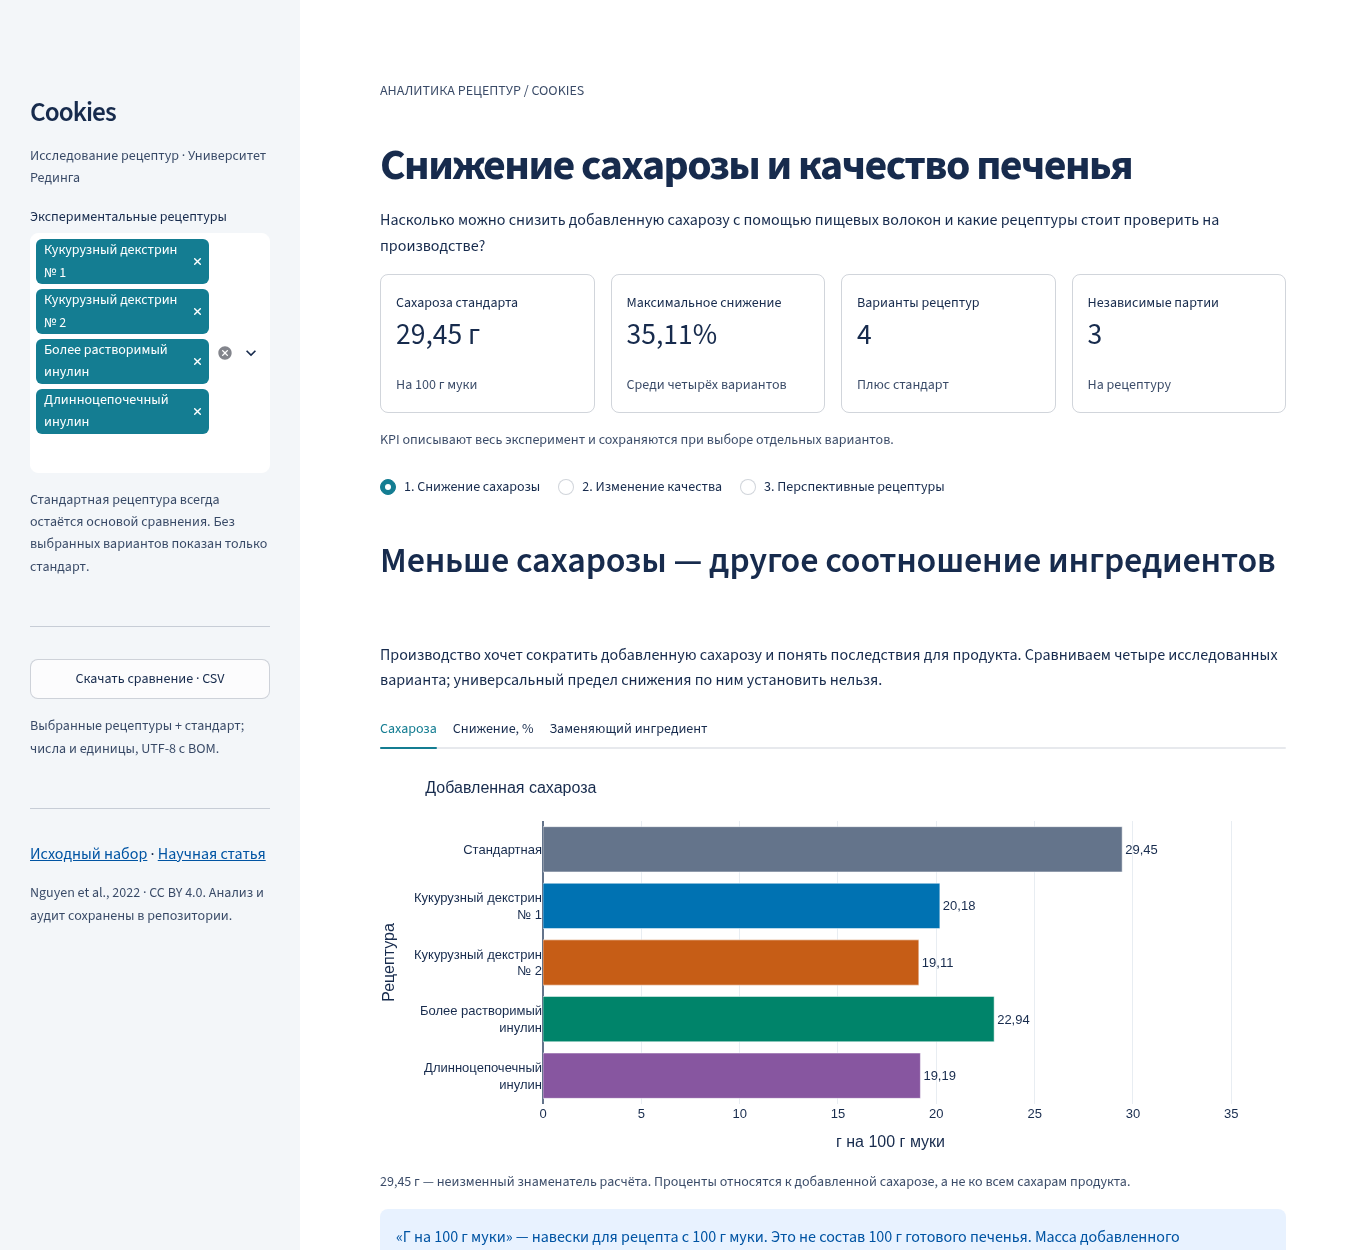
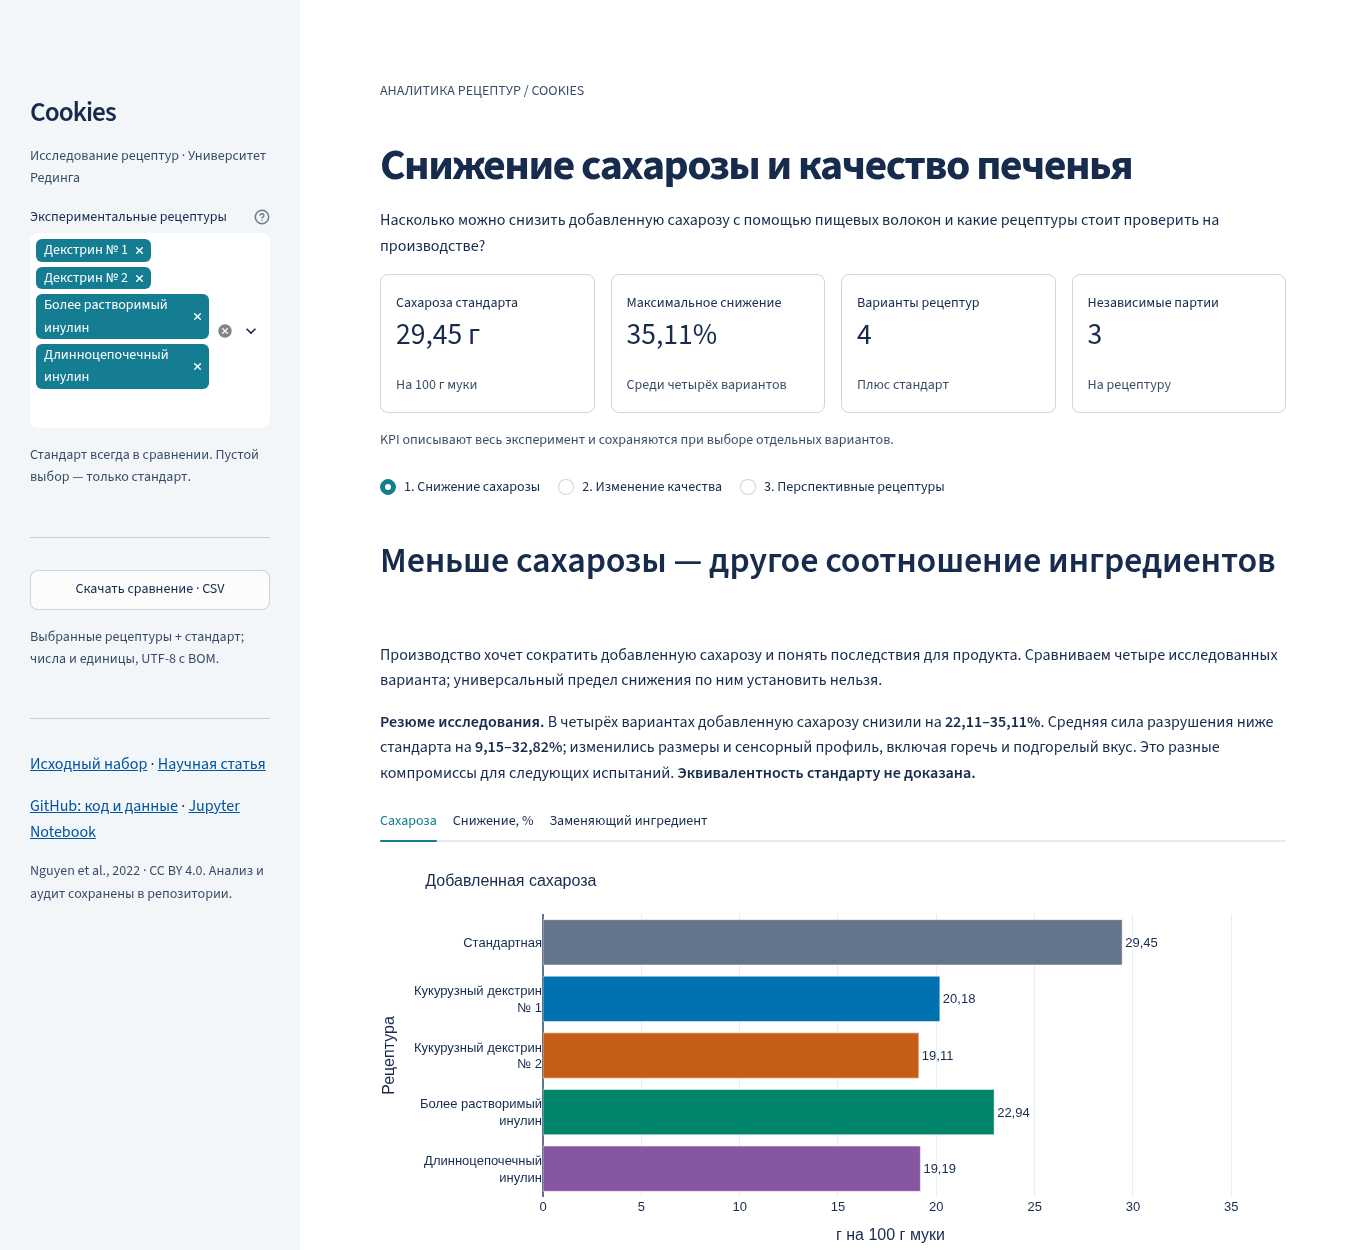
Polish published Cookies app for portfolio demonstrations

diff --git a/app.py b/app.py
@@ -211,6 +211,15 @@ def sugar_section(tables, selected):
     st.header("Меньше сахарозы — другое соотношение ингредиентов")
     st.write("Производство хочет сократить добавленную сахарозу и понять последствия для продукта. "
              "Сравниваем четыре исследованных варианта; универсальный предел снижения по ним установить нельзя.")
+    candidates = tables["candidate_comparison"]
+    sugar_low, sugar_high = candidates.sucrose_reduction_pct.min(), candidates.sucrose_reduction_pct.max()
+    force_low, force_high = candidates.absolute_breaking_relative_delta_pct.min(), candidates.absolute_breaking_relative_delta_pct.max()
+    st.markdown(
+        f"**Резюме исследования.** В четырёх вариантах добавленную сахарозу снизили на **{number(sugar_low)}–{number(sugar_high)}%**. "
+        f"Средняя сила разрушения ниже стандарта на **{number(force_low)}–{number(force_high)}%**; "
+        "изменились размеры и сенсорный профиль, включая горечь и подгорелый вкус. "
+        "Это разные компромиссы для следующих испытаний. **Эквивалентность стандарту не доказана.**"
+    )
     recipes = selected_rows(tables["recipes"], selected)
     sugar_tab, reduction_tab, ingredient_tab = st.tabs(["Сахароза", "Снижение, %", "Заменяющий ингредиент"])
     with sugar_tab:
@@ -408,14 +417,20 @@ def main():
         st.title("Cookies")
         st.caption("Исследование рецептур · Университет Рединга")
         selected = st.multiselect("Экспериментальные рецептуры", recipes.recipe_id.iloc[1:].tolist(),
-                                  default=recipes.recipe_id.iloc[1:].tolist(), format_func=names.get, placeholder="Выберите варианты", key="recipes")
-        st.caption("Стандартная рецептура всегда остаётся основой сравнения. Без выбранных вариантов показан только стандарт.")
+                                  default=recipes.recipe_id.iloc[1:].tolist(),
+                                  format_func=lambda rid: names[rid].replace("Кукурузный декстрин", "Декстрин"),
+                                  placeholder="Выберите варианты", key="recipes",
+                                  help="Декстрин № 1 — кукурузный декстрин Nutriose; № 2 — Promitor. Полные названия рецептур сохранены на графиках и в таблицах.")
+        st.caption("Стандарт всегда в сравнении. Пустой выбор — только стандарт.")
         st.divider()
         st.download_button("Скачать сравнение · CSV", csv_bytes(comparison_table(tables, selected)),
                            file_name="cookies_comparison.csv", mime="text/csv", key="download_comparison", width="stretch")
         st.caption("Выбранные рецептуры + стандарт; числа и единицы, UTF-8 с BOM.")
         st.divider()
         st.markdown("[Исходный набор](https://doi.org/10.17864/1947.000384) · [Научная статья](https://doi.org/10.1016/j.lwt.2022.113837)")
+        # Публичность Alina-lab/cookies проверена через GitHub 14.10.2026.
+        st.markdown("[GitHub: код и данные](https://github.com/Alina-lab/cookies) · "
+                    "[Jupyter Notebook](https://github.com/Alina-lab/cookies/blob/main/biscuit_recipe_analysis.ipynb)")
         st.caption("Nguyen et al., 2022 · CC BY 4.0. Анализ и аудит сохранены в репозитории.")
     st.caption("АНАЛИТИКА РЕЦЕПТУР / COOKIES")
     st.title("Снижение сахарозы и качество печенья")

diff --git a/tests/browser_smoke.py b/tests/browser_smoke.py
@@ -25,6 +25,10 @@ def run(executable=None, screenshots=None):
         page.get_by_role("heading", name="Снижение сахарозы и качество печенья").wait_for()
         page.locator(".js-plotly-plot .main-svg").first.wait_for()
         page.wait_for_function("document.querySelector('.js-plotly-plot')?.data?.[0]?.x?.length === 5")
+        expect(page.get_by_role("link", name="GitHub: код и данные", exact=True)).to_have_attribute("href", "https://github.com/Alina-lab/cookies")
+        expect(page.get_by_role("link", name="Jupyter Notebook", exact=True)).to_have_attribute("href", "https://github.com/Alina-lab/cookies/blob/main/biscuit_recipe_analysis.ipynb")
+        page.get_by_text("Резюме исследования.", exact=True).wait_for()
+        assert page.locator('[data-testid="stSidebar"] [data-testid="stMultiSelectTagsContainer"]').evaluate("e => e.clientHeight < 220")
         expect(page.locator('[data-testid="stMetricValue"]')).to_have_text(["29,45 г", "35,11%", "4", "3"])
         assert "Стандартная" in page.locator(".js-plotly-plot .ytick").all_text_contents()
         tags = page.locator('[data-tag] span[title]').evaluate_all("es => es.map(e => [e.clientWidth,e.scrollWidth,e.clientHeight,e.scrollHeight])")
@@ -41,7 +45,7 @@ def run(executable=None, screenshots=None):
         page.locator(".js-plotly-plot .barlayer .point").first.hover(force=True)
         expect(page.locator(".hoverlayer").first).to_contain_text("29,45")
         # Фильтр рецептур, контроль и скачивание настоящего файла браузером.
-        for label in ["Кукурузный декстрин № 2", "Более растворимый инулин", "Длинноцепочечный инулин"]:
+        for label in ["Декстрин № 2", "Более растворимый инулин", "Длинноцепочечный инулин"]:
             page.get_by_role("button", name="Remove " + label, exact=True).click()
         page.wait_for_function("document.querySelector('.js-plotly-plot')?.data?.[0]?.x?.length === 2")
         page.get_by_role("tab", name="Снижение, %", exact=True).click()

diff --git a/tests/test_app.py b/tests/test_app.py
@@ -78,6 +78,13 @@ class CookiesAppTests(unittest.TestCase):
         at = AppTest.from_file(str(ROOT / "app.py"), default_timeout=20).run()
         self.healthy(at)
         self.assertEqual([m.value for m in at.metric], ["29,45 г", "35,11%", "4", "3"])
+        summary = next(element.value for element in at.markdown if "Резюме исследования." in element.value)
+        self.assertIn("22,11–35,11%", summary)
+        self.assertIn("9,15–32,82%", summary)
+        self.assertIn("Эквивалентность стандарту не доказана", summary)
+        links = " ".join(element.value for element in at.markdown)
+        self.assertIn("https://github.com/Alina-lab/cookies/blob/main/biscuit_recipe_analysis.ipynb", links)
+
         choices = [[], ["nutriose"], ["promitor"], ["orafti"], ["fibruline"], ["nutriose", "fibruline"]]
         for selected in choices:
             at.multiselect(key="recipes").set_value(selected).run()
@@ -89,6 +96,7 @@ class CookiesAppTests(unittest.TestCase):
             self.assertEqual(figs[2]["data"][0]["x"], expected.fibre_ingredient_g_per_100g_flour.tolist())
             self.assertIn("Стандартная", figs[0]["data"][0]["y"])
             self.assertEqual(at.metric[1].value, "35,11%")
+            self.assertEqual(next(element.value for element in at.markdown if "Резюме исследования." in element.value), summary)
             exported = app.csv_bytes(app.comparison_table(self.tables, selected))
             self.assertTrue(exported.startswith(b"\xef\xbb\xbf"))
             csv = pd.read_csv(io.BytesIO(exported))

diff --git a/README.md b/README.md
@@ -4,7 +4,7 @@
 
 На кондитерском производстве сахар влияет на вкус, структуру, цвет и поведение теста при выпечке. Сравниваем четыре опубликованные рецептуры со стандартной и предлагаем направления дальнейших производственных испытаний. Согласованных границ допустимого ухудшения нет, поэтому описываем конкретные изменения, а технологическую эквивалентность не объявляем. Снижение добавленной сахарозы не равно измеренному снижению всех сахаров готового продукта.
 
-**Основное представление проекта — локальное приложение Streamlit + Plotly:** три раздела, фильтры рецептур и показателей, графики с подсказками, готовая статистика и скачивание сравнения в CSV. Приложение читает существующие аналитические данные и не проводит исследование заново. Исходники, аудит и основной Jupyter Notebook сохранены. `datalens/` — архив предыдущего решения; для запуска приложения он не нужен.
+**[Опубликованное приложение Cookies](https://cookies-alina-lab.streamlit.app/) — основное представление проекта на Streamlit + Plotly:** три раздела, фильтры рецептур и показателей, графики с подсказками, готовая статистика и скачивание сравнения в CSV. Приложение читает существующие аналитические данные и не проводит исследование заново. Исходники, аудит и основной Jupyter Notebook сохранены. `datalens/` — архив предыдущего решения; для запуска приложения он не нужен.
 
 ## Запуск приложения
 
@@ -23,15 +23,15 @@ py -3.12 -m venv .venv-app
 .\.venv-app\Scripts\python.exe -m streamlit run app.py
 ```
 
-Откройте `http://localhost:8501`. Приложение не требует Yandex Cloud, DataLens, API-ключей, базы данных или токенов. CSV читаются относительно `app.py`. Публикация не выполнялась; репозиторий остаётся приватным.
+Откройте `http://localhost:8501`. Приложение не требует Yandex Cloud, DataLens, API-ключей, базы данных или токенов. CSV читаются относительно `app.py`. Приложение также доступно по [публичной ссылке](https://cookies-alina-lab.streamlit.app/); [репозиторий](https://github.com/Alina-lab/cookies) публичный. В интерфейсе есть ссылки на код и основной notebook.
 
 ![Локальное приложение Cookies в Chromium](streamlit_preview.png)
 
-Настоящий скриншот работающего локального приложения, не макет и не изображение DataLens.
+Настоящий скриншот работающего локального приложения. После финальной полировки обновлены резюме первого экрана и компактный фильтр.
 
 ## Что можно изучить в приложении
 
-1. **Снижение сахарозы:** неизменные KPI всего эксперимента, переключение графиков сахарозы, её снижения и массы нового ингредиента, состав рецептур и словарь ингредиентов.
+1. **Снижение сахарозы:** короткое резюме диапазона и компромиссов качества, неизменные KPI всего эксперимента, переключение графиков сахарозы, её снижения и массы нового ингредиента, состав рецептур и словарь ингредиентов.
 2. **Изменение качества:** сила разрушения с тремя партийными значениями и готовыми 95% t-интервалами, разности с контролем, четыре группы физических характеристик, все 40 опубликованных сенсорных признаков. Статистические модели и их допущения доступны в раскрывающемся блоке.
 3. **Перспективные рецептуры:** три разных исследовательских приоритета и таблица кандидатов. Направления определяются из данных всех четырёх вариантов, без произвольных весов и общего рейтинга.
 
@@ -57,7 +57,7 @@ py -3.12 -m venv .venv-app
 .\.venv-app\Scripts\python.exe tests\browser_smoke.py
 ```
 
-Проверка 14 октября 2026 года: **6 тестов прошли**. В настоящем headless Chromium проверены три раздела, фильтр рецептур, физический выбор aw, сенсорный выбор и переключение на опубликованные средние, числовая подсказка при наведении, скачивание CSV и ширины **1366×900 / 1024×768**. Ошибок JavaScript и горизонтальной прокрутки основной страницы не обнаружено. Просмотрены реальные скриншоты; проверены контраст основных цветов и отсутствие обрезания названий рецептур в фильтре. Это локальная проверка Linux/Chromium: остаётся ручной просмотр в Chrome/Edge на Windows и при вашем масштабе экрана. Приложение не опубликовано.
+Проверка 14 октября 2026 года: **6 тестов прошли**. В настоящем headless Chromium проверены три раздела, фильтр рецептур, физический выбор aw, сенсорный выбор и переключение на опубликованные средние, числовая подсказка при наведении, скачивание CSV и ширины **1366×900 / 1024×768**. Ошибок JavaScript и горизонтальной прокрутки основной страницы не обнаружено. Просмотрены реальные скриншоты; проверены контраст основных цветов и отсутствие обрезания названий рецептур в фильтре. Это локальная проверка Linux/Chromium: остаётся ручной просмотр в Chrome/Edge на Windows и при вашем масштабе экрана. Опубликованное приложение: https://cookies-alina-lab.streamlit.app/.
 
 Браузерный тест работает только с локальным адресом. Он проверяет отрисовку, выбор рецептуры и физических/сенсорных показателей, сохранение контроля, настоящее скачивание CSV и отсутствие горизонтальной прокрутки основной страницы. Скриншоты можно сохранить опцией `--screenshots <локальная_папка>`.
 
